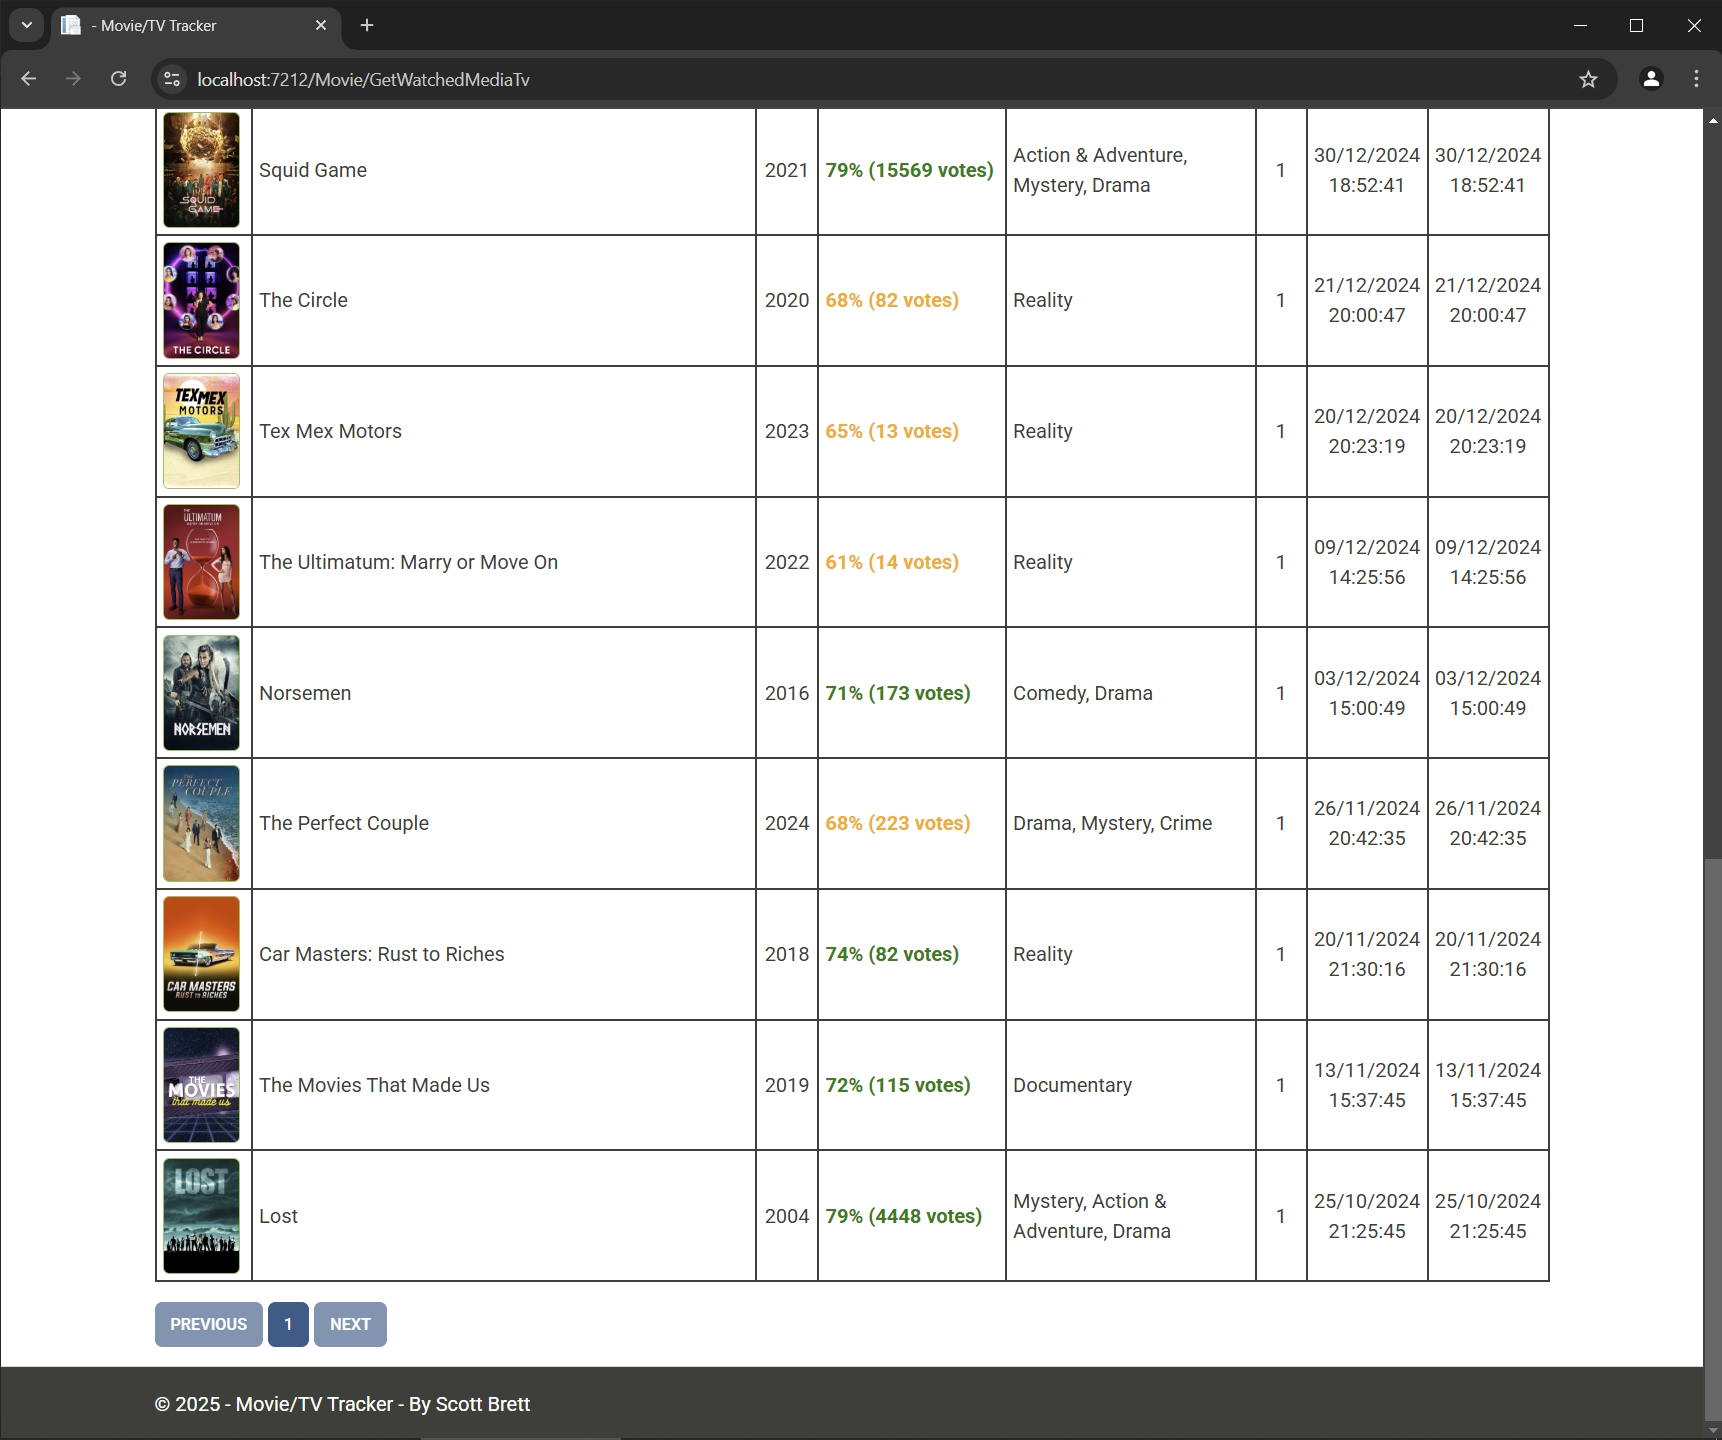
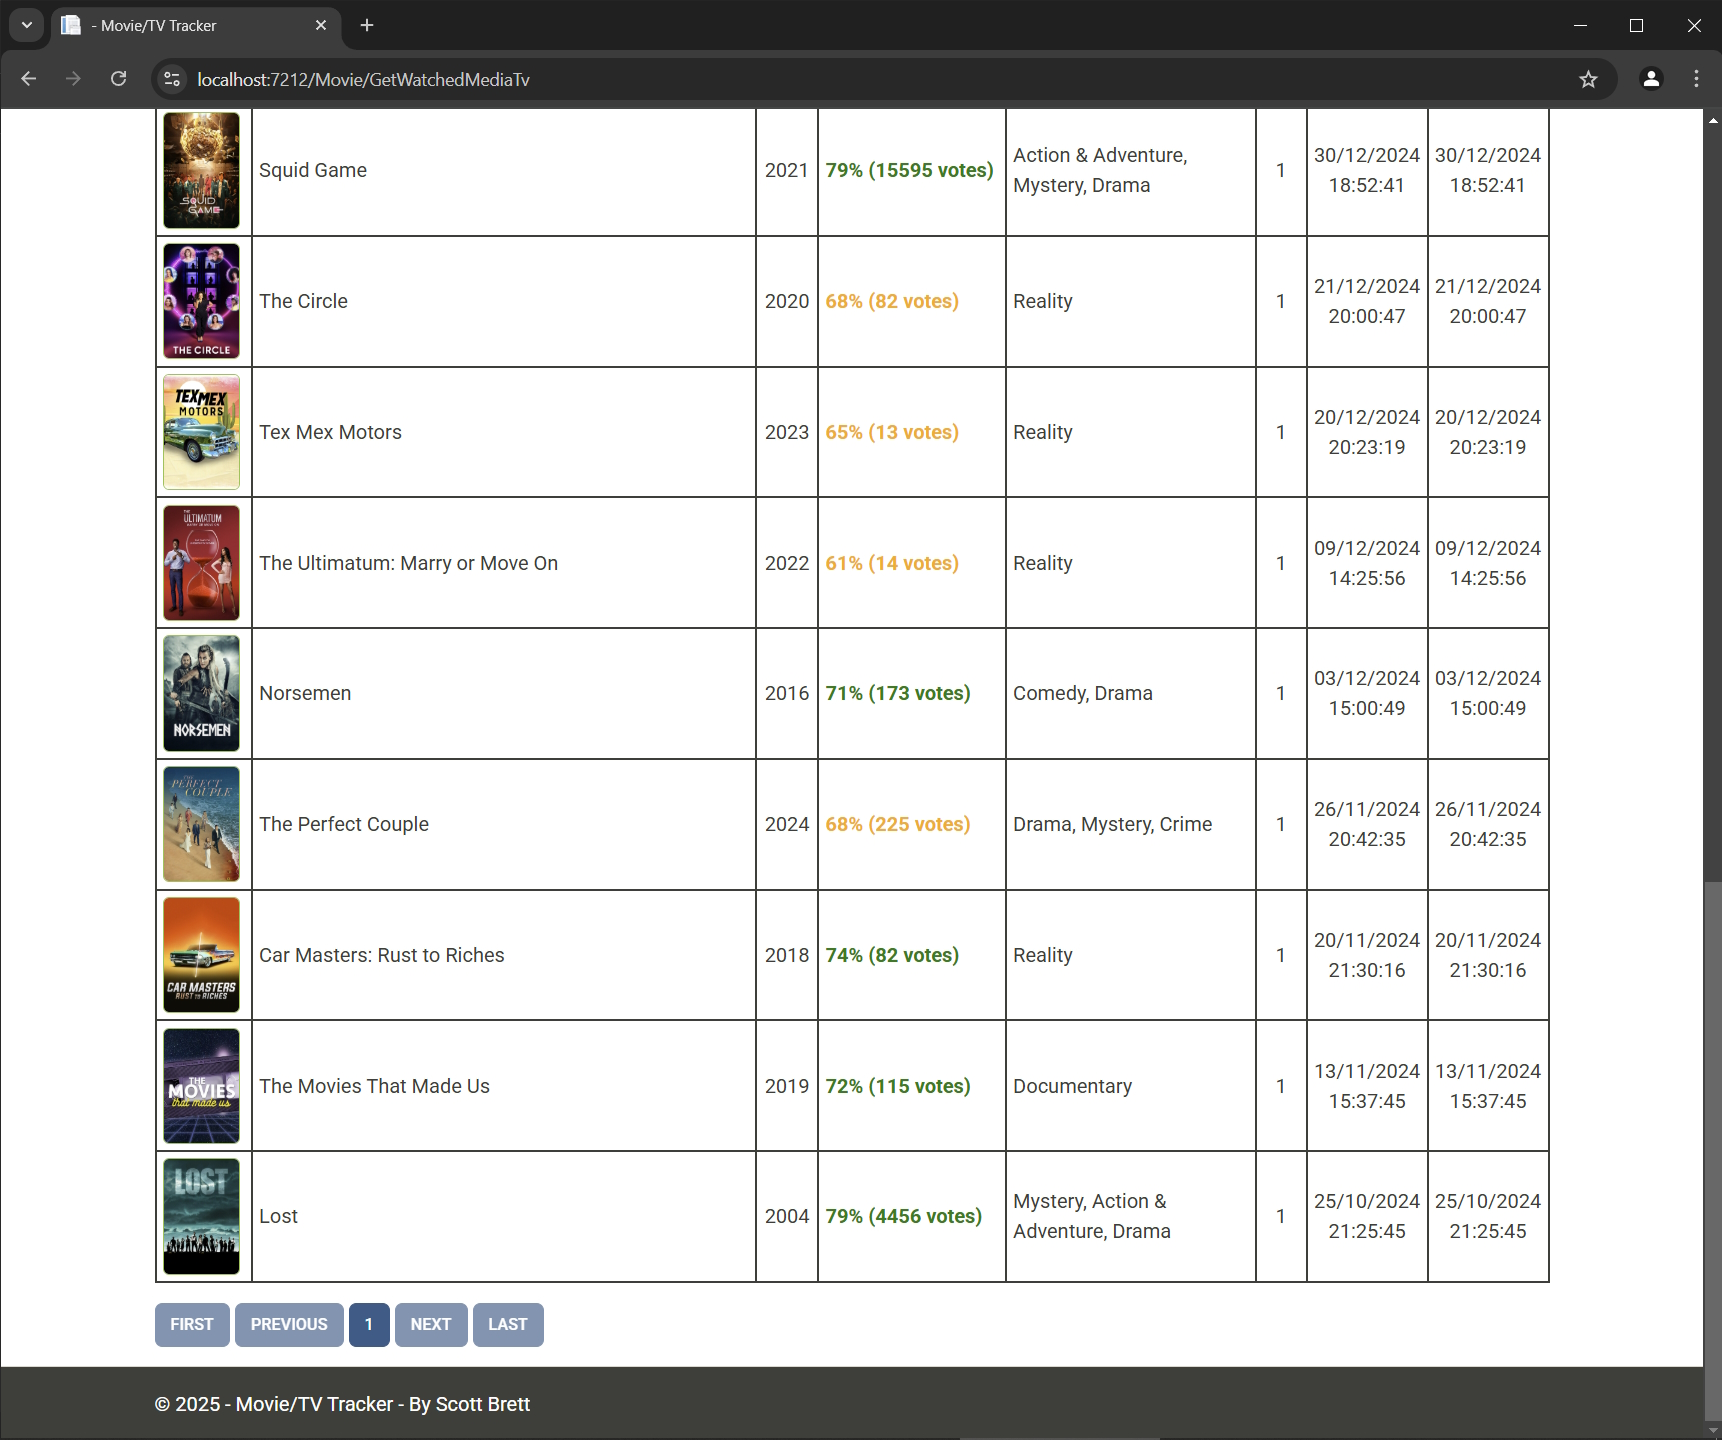
Updated images.  Pagination code improved so it now uses threading and first/last and active page buttons.  Various controller action methods upgraded to use more threading.

diff --git a/MovieTvTracker.Web/Controllers/MovieController.cs b/MovieTvTracker.Web/Controllers/MovieController.cs
@@ -5,6 +5,7 @@ using TmdbApi.Lib.Interfaces;
 using MovieTvTracker.Web.Class;
 using MovieTvTracker.Web.Interfaces;
 using TmdbApi.Lib.Class;
+using Microsoft.EntityFrameworkCore;
 
 namespace MovieTvTracker.Web.Controllers
 {
@@ -73,7 +74,7 @@ namespace MovieTvTracker.Web.Controllers
         /// <returns></returns>
         /// <exception cref="Exception"></exception>
         [HttpGet]
-        public IActionResult GetMyFilmStats()
+        public async Task<IActionResult> GetMyFilmStats()
         {
             try
             {
@@ -82,7 +83,7 @@ namespace MovieTvTracker.Web.Controllers
 
                 media.WatchedMediaResults = new WatchedMediaResults();
 
-                foreach (WatchedMedia item in _db.WatchedMedia.Where(x => x.ContentType == "Film"))
+                foreach (WatchedMedia item in await _db.WatchedMedia.Where(x => x.ContentType == "Film").ToListAsync())
                 {
                     media.WatchedMediaResults.WatchedFilms.Add(new WatchedMediaItem
                     {
@@ -108,7 +109,7 @@ namespace MovieTvTracker.Web.Controllers
         /// <returns></returns>
         /// <exception cref="Exception"></exception>
         [HttpGet]
-        public IActionResult GetMyTvStats()
+        public async Task<IActionResult> GetMyTvStats()
         {
             try
             {
@@ -117,7 +118,7 @@ namespace MovieTvTracker.Web.Controllers
 
                 media.WatchedMediaResults = new WatchedMediaResults();
 
-                foreach (WatchedMedia item in _db.WatchedMedia.Where(x => x.ContentType == "TV"))
+                foreach (WatchedMedia item in await _db.WatchedMedia.Where(x => x.ContentType == "TV").ToListAsync())
                 {
                     media.WatchedMediaResults.WatchedTV.Add(new WatchedMediaItem
                     {
@@ -144,7 +145,7 @@ namespace MovieTvTracker.Web.Controllers
         /// <returns></returns>
         /// <exception cref="Exception"></exception>
         [HttpGet]
-        public IActionResult GetWatchedMediaFilm(int? pageNumber)
+        public async Task<IActionResult> GetWatchedMediaFilm(int? pageNumber)
         {
             try
             {
@@ -152,7 +153,7 @@ namespace MovieTvTracker.Web.Controllers
                 IGetStatistics stats = new GetStatistics();
 
                 media.WatchedMediaResults = new WatchedMediaResults();
-                media.PaginatedWatchedMediaList = PaginatedList<WatchedMedia>.Create(_db.WatchedMedia.Where(x => x.ContentType == "Film").OrderByDescending(x => x.LastWatched).ToList(), pageNumber ?? 1, _pageSize);
+                media.PaginatedWatchedMediaList = await PaginatedList<WatchedMedia>.CreateAsync(_db.WatchedMedia.Where(x => x.ContentType == "Film").OrderByDescending(x => x.LastWatched), pageNumber ?? 1, _pageSize);
 
                 foreach (WatchedMedia item in media.PaginatedWatchedMediaList)
                 {
@@ -178,7 +179,7 @@ namespace MovieTvTracker.Web.Controllers
         /// <returns></returns>
         /// <exception cref="Exception"></exception>
         [HttpGet]
-        public IActionResult GetWatchedMediaTv(int? pageNumber)
+        public async Task<IActionResult> GetWatchedMediaTv(int? pageNumber)
         {
             try
             {
@@ -186,7 +187,7 @@ namespace MovieTvTracker.Web.Controllers
                 IGetStatistics stats = new GetStatistics();
 
                 media.WatchedMediaResults = new WatchedMediaResults();
-                media.PaginatedWatchedMediaList = PaginatedList<WatchedMedia>.Create(_db.WatchedMedia.Where(x => x.ContentType == "TV").OrderByDescending(x => x.LastWatched).ToList(), pageNumber ?? 1, _pageSize);
+                media.PaginatedWatchedMediaList = await PaginatedList<WatchedMedia>.CreateAsync(_db.WatchedMedia.Where(x => x.ContentType == "TV").OrderByDescending(x => x.LastWatched), pageNumber ?? 1, _pageSize);
 
                 foreach (WatchedMedia item in media.PaginatedWatchedMediaList)
                 {
@@ -210,12 +211,12 @@ namespace MovieTvTracker.Web.Controllers
         /// </summary>
         /// <returns></returns>
         [HttpGet]
-        public IActionResult GetFavoriteActors(int? pageNumber)
+        public async Task<IActionResult> GetFavoriteActors(int? pageNumber)
         {
             IMedia media = new Media();
 
-            media.FavoriteActorTotalCount = _db.FavoriteActor.Count();
-            media.PaginatedFavoriteActorList = PaginatedList<FavoriteActor>.Create(_db.FavoriteActor.ToList(), pageNumber ?? 1, _pageSize);
+            media.FavoriteActorTotalCount = await _db.FavoriteActor.CountAsync(); ;
+            media.PaginatedFavoriteActorList = await PaginatedList<FavoriteActor>.CreateAsync(_db.FavoriteActor, pageNumber ?? 1, _pageSize);
 
             try
             {
@@ -253,7 +254,7 @@ namespace MovieTvTracker.Web.Controllers
         {
             try
             {
-                WatchedMedia watchedMedia = _db.WatchedMedia.Where(x => x.TMDBId == media.SelectedTMDBId).FirstOrDefault();
+                WatchedMedia watchedMedia = await _db.WatchedMedia.Where(x => x.TMDBId == media.SelectedTMDBId).FirstOrDefaultAsync();
 
                 if (watchedMedia == null)
                 {
@@ -296,7 +297,7 @@ namespace MovieTvTracker.Web.Controllers
         {
             try
             {
-                FavoriteActor favoriteActor = _db.FavoriteActor.Where(x => x.TMDBId == media.TMDBData.PersonIdResult.id).FirstOrDefault();
+                FavoriteActor favoriteActor = await _db.FavoriteActor.Where(x => x.TMDBId == media.TMDBData.PersonIdResult.id).FirstOrDefaultAsync();
 
                 if (favoriteActor == null)
                 {
@@ -408,7 +409,7 @@ namespace MovieTvTracker.Web.Controllers
                 return NotFound();
             }
 
-            FavoriteActor obj = _db.FavoriteActor.Where(x => x.TMDBId == id).First();
+            FavoriteActor obj = await _db.FavoriteActor.Where(x => x.TMDBId == id).FirstAsync();
 
             if (obj == null)
             {

diff --git a/MovieTvTracker.Web/Class/PaginatedList.cs b/MovieTvTracker.Web/Class/PaginatedList.cs
@@ -1,8 +1,12 @@
-namespace MovieTvTracker.Web.Class
+using Microsoft.EntityFrameworkCore;
+
+namespace MovieTvTracker.Web.Class
 {
     public class PaginatedList<T>:List<T>
     {
+        public int TotalItems { get; set; }
         public int PageIndex { get; set; }
+        public int PageSize { get; set; }
         public int TotalPages { get; set; }
 
         public PaginatedList(List<T> items, int count, int pageIndex, int pageSize)
@@ -12,13 +16,16 @@
             this.AddRange(items);
         }
 
-        public bool HasPreviousPage => PageIndex > 1;
-        public bool HasNextPage => PageIndex < TotalPages;
+        public bool HasPreviousPage => (PageIndex > 1);
+        public bool HasNextPage => (PageIndex < TotalPages);
 
-        public static PaginatedList<T> Create (List<T> source, int pageIndex, int pageSize)
+        public int FirstItemIndex => (PageIndex - 1) * PageSize + 1;
+        public int LastItemIndex => Math.Min(PageIndex * PageSize, TotalItems);
+
+        public static async Task<PaginatedList<T>> CreateAsync (IQueryable<T> source, int pageIndex, int pageSize)
         {
-            var count = source.Count;
-            var items = source.Skip((pageIndex - 1) * pageSize).Take(pageSize).ToList();
+            var count = await source.CountAsync();
+            var items = await source.Skip((pageIndex - 1) * pageSize).Take(pageSize).ToListAsync();
 
             return new PaginatedList<T>(items, count, pageIndex, pageSize);
         }
